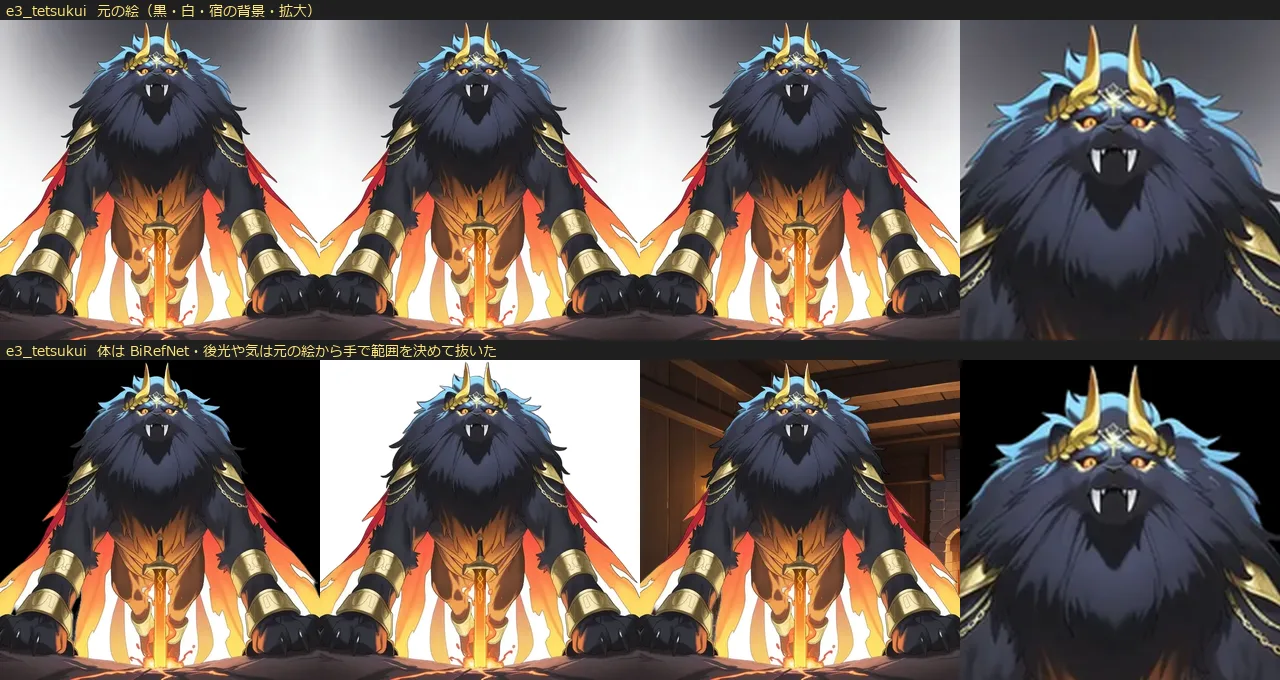
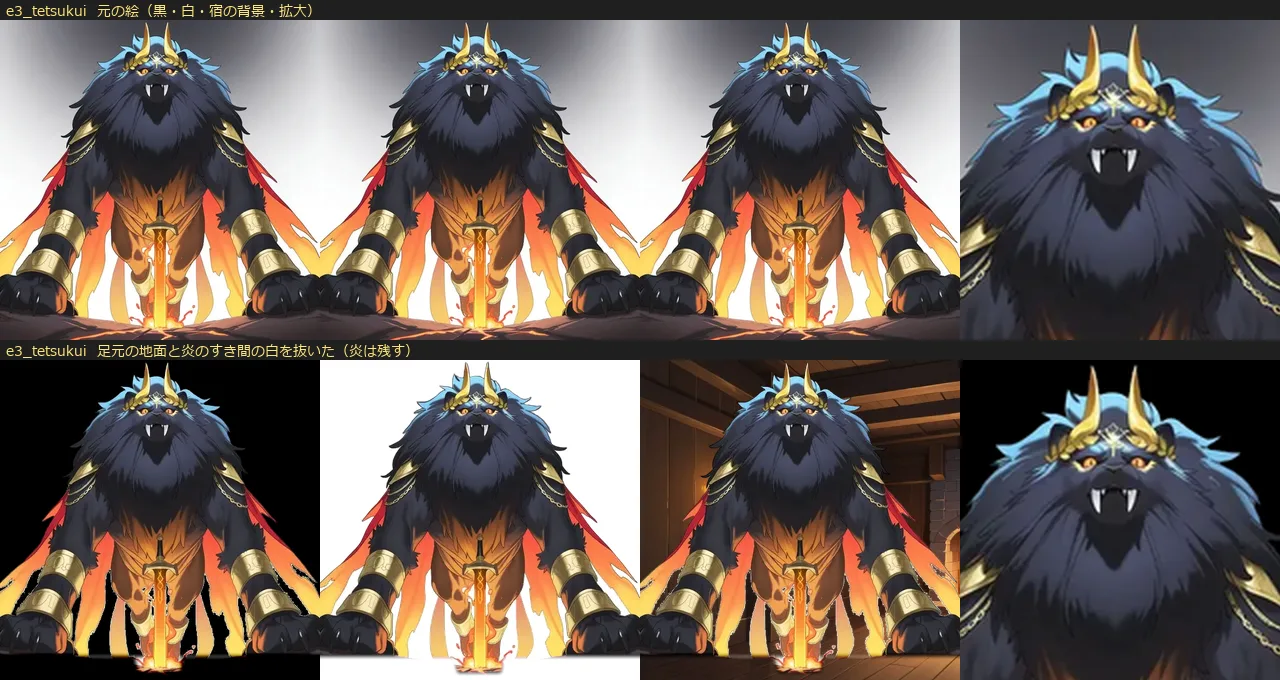
作り直しの確認：e3_tetsukui の足元の地面と炎のすき間の白を抜く・e3_togaoi を新しく描いた案 3 枚（持ち主に選んでもらう）
- e3_tetsukui：地面は drop、炎のすき間の白は clear（keep_region.py に足した。BiRefNet が体と見なした所でも、背景の白に近い所は抜く）
- e3_togaoi：同じ設定（鉄の仮面・黒い処刑衣・鎖・大斧・頭の後ろの輪）で、威厳のある立ち姿を緑の背景で描き、抜いた。左から a・b・c（togaoi/candidates.webp）。作り方は tools/togaoi_candidates.py

Claude-Session: https://claude.ai/code/session_011Kp4AbAXdzXbnvYnjXXoLh

diff --git a/tools/keep_region.py b/tools/keep_region.py
@@ -4,6 +4,7 @@
 - 体：BiRefNet の透明度
 - 範囲（key）：範囲の中だけ、背景の色との差から透明度を出す（後光・光の輪・煙・水しぶきなど、ふちが半透明な物）
 - 範囲（solid）：範囲の中は不透明（背景と同じような色の岩・地面など、色の差で分けられない物）
+- 範囲（clear）：範囲の中は、BiRefNet が体と見なしても、背景の色に近い所は抜く（炎や毛のすき間の白など）
 - 範囲（drop）：範囲の中は必ず透明（体と地続きに描かれた、持ち運べない背景。洞窟のアーチなど）
 - 1 枚ごとに "lo"・"hi"（色の差の幅）も変えられる（白い背景のもやを残さないときは lo を上げる）
 二つの大きい方を透明度にし、範囲の半透明の所は背景の色を割り戻して色を戻す。
@@ -30,8 +31,9 @@ def region_masks(shapes, size):
     key = Image.new("L", size, 0)
     solid = Image.new("L", size, 0)
     drop = Image.new("L", size, 0)
+    clear = Image.new("L", size, 0)
     for s in shapes:
-        layer = {"key": key, "solid": solid, "drop": drop}[s[-1]]
+        layer = {"key": key, "solid": solid, "drop": drop, "clear": clear}[s[-1]]
         d = ImageDraw.Draw(layer)
         if s[0] == "e":
             _, cx, cy, rx, ry, _ = s
@@ -39,7 +41,7 @@ def region_masks(shapes, size):
         else:
             d.polygon(list(zip(s[1][0::2], s[1][1::2])), fill=255)
     soft = lambda m: np.array(m.filter(ImageFilter.GaussianBlur(3))).astype(np.float32) / 255
-    return soft(key), soft(solid), soft(drop)
+    return soft(key), soft(solid), soft(drop), soft(clear)
 
 
 def main():
@@ -69,11 +71,14 @@ def main():
             B = np.median(rgb[max(0, y - 4):y + 5, max(0, x - 4):x + 5].reshape(-1, 3), axis=0).astype(np.float32)
         else:
             B = cm.border_bg(rgb)
-        kmask, smask, dmask = region_masks(r["shapes"], (rgb.shape[1], rgb.shape[0]))
+        kmask, smask, dmask, cmask = region_masks(r["shapes"], (rgb.shape[1], rgb.shape[0]))
         diff = np.abs(rgb.astype(np.float32) - B).max(axis=2)
         lo, hi = r.get("lo", a.lo), r.get("hi", a.hi)
         key = np.clip((diff - lo) / (hi - lo), 0, 1)
         alpha = np.maximum(body, np.maximum(key * kmask, smask)) * (1 - dmask)
+        # clear：範囲の中は、BiRefNet が体と見なしても、背景の色に近い所（炎のすき間の白など）は色の差の透明度にする
+        near = np.clip((diff - r.get("clear_lo", 8)) / (r.get("clear_hi", 28) - r.get("clear_lo", 8)), 0, 1)
+        alpha = alpha * (1 - cmask) + np.minimum(alpha, near) * cmask
         a8 = (alpha * 255).astype(np.uint8)
         a8 = np.where(a8 < 8, 0, np.where(a8 > 247, 255, a8)).astype(np.uint8)
         col = cm.decontaminate(rgb, a8, B)
@@ -90,7 +95,7 @@ def main():
             ov = Image.new("RGBA", p.size, (0, 0, 0, 0))
             d = ImageDraw.Draw(ov)
             for s in r["shapes"]:
-                c = {"key": (0, 255, 255, 255), "solid": (255, 160, 0, 255), "drop": (255, 0, 0, 255)}[s[-1]]
+                c = {"key": (0, 255, 255, 255), "solid": (255, 160, 0, 255), "drop": (255, 0, 0, 255), "clear": (0, 255, 0, 255)}[s[-1]]
                 if s[0] == "e":
                     _, cx, cy, rx, ry, _ = s
                     d.ellipse([cx - rx, cy - ry, cx + rx, cy + ry], outline=c, width=3)

diff --git a/tools/togaoi_candidates.py b/tools/togaoi_candidates.py
@@ -1,0 +1,21 @@
+import base64, io, json, sys, urllib.request
+from PIL import Image
+S = "C:/Users/nakab/AppData/Local/Temp/claude/H--game-trpg-game2/fbefcd33-19d7-4217-a094-a054f9951e74/scratchpad/tog/"
+st = json.load(open("H:/game/trpg-redo/docs/art/style_monsters.json", encoding="utf-8"))
+pos = ", ".join([
+ "(Inuboshi:1.2), miyanogi_jiji, Anan Shokudow, yutokamizu, masterpiece, best quality, amazing quality, very aesthetic, absurdres, newest",
+ "(dorontabi:1.3), (colossal executioner deity:1.3), dark fantasy, solo",
+ "(faceless iron mask engraved with runes:1.3), two faint glowing white eyes in the eye slits",
+ "tall black hooded executioner robe, hem dissolving into black smoke, no legs, floating",
+ "(holding a huge executioner axe with both hands:1.2), axe blade resting before it",
+ "(a giant ring of bells and chains floating behind its head:1.3), many small iron bells hanging on chains from its arms",
+ "imposing, menacing, regal, majestic, eerie, solemn, (from below:1.1), dramatic pose, full body, (character fills the frame:1.2)",
+ "(flat solid green background:1.4), green screen, no gradient, simple background",
+])
+neg = st["human"]["negative"] + ", gradient background, glow on background, vignette, scenery, floor, shadow on background, cute, chibi, small figure"
+for n in range(int(sys.argv[1]), int(sys.argv[2])):
+    body = {"prompt": pos, "negative_prompt": neg, "sampler_name": st["sampler_name"], "scheduler": st.get("scheduler", "Automatic"), "steps": 24, "cfg_scale": 6,
+            "width": 1024, "height": 1024, "seed": -1, "override_settings": st["override_settings"], "override_settings_restore_afterwards": True}
+    r = json.loads(urllib.request.urlopen(urllib.request.Request("http://127.0.0.1:7860/sdapi/v1/txt2img", json.dumps(body).encode(), {"Content-Type": "application/json"}), timeout=900).read())
+    Image.open(io.BytesIO(base64.b64decode(r["images"][0]))).convert("RGB").resize((512, 512), Image.LANCZOS).save(S + f"d{n}.png")
+    print(n, json.loads(r["info"]).get("seed"), flush=True)
